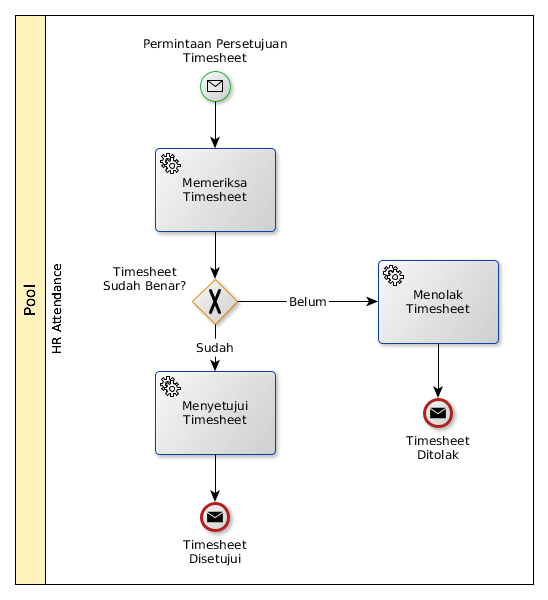
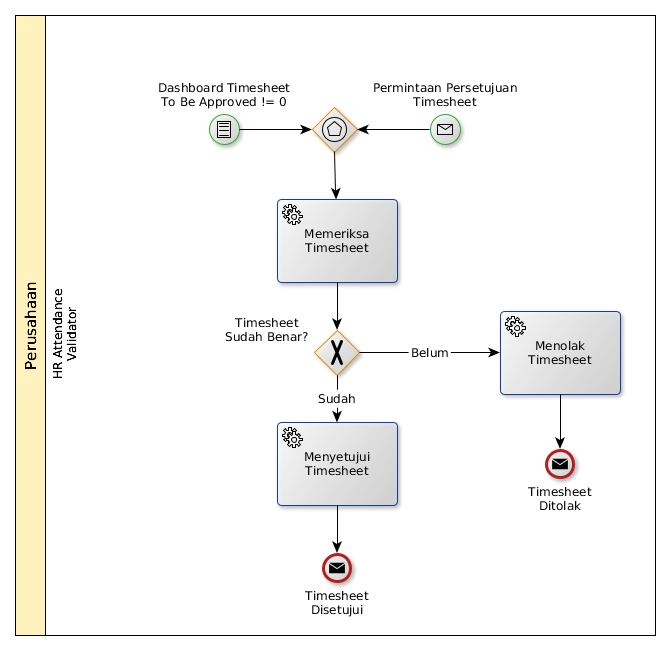
Revisi prosedur-prosedur terkait timesheet

diff --git a/src/hr/attendance/menyetujui-menolak-timesheet.md b/src/hr/attendance/menyetujui-menolak-timesheet.md
@@ -2,12 +2,18 @@
 
 ## <a name="input">A. INPUT</a>
 
-* Permintaan Persetujuan Timesheet
+* *Message*: Notifikasi **Permintaan Persetujuan Timesheet**, atau
+* *Condition*: Dashboard **Timesheet: To Be Approved != 0**
 
 ## <a name="role">B. ROLE YANG TERLIBAT</a>
 
-* HR Attendance
+* HR Attendance Validator
 
 ## <a name="instruksi">C. INSTRUKSI KERJA</a>
 
 ![](../../img/menyetujui-menolak-timesheet.png)
+
+## <a name="input">D. OUTPUT</a>
+
+* *Message*: Notifikasi **Timesheet Ditolak**, atau
+* *Message*: Notifikasi **Timesheet Disetujui**

diff --git a/src/hr/attendance/mengumpulkan-timesheet.md b/src/hr/attendance/mengumpulkan-timesheet.md
@@ -2,8 +2,9 @@
 
 ## <a name="input">A. INPUT</a>
 
-* Timesheet Ditolak
-* H+1 Periode Absen
+* *Message*: Notifikasi **Timesheet Ditolak**, atau
+* *Time*: H+1 Periode Absen, atau
+* *Condition*: Dashboard **My Timesheet: Need To Submitted != 0** 
 
 ## <a name="role">B. ROLE YANG TERLIBAT</a>
 
@@ -12,3 +13,7 @@
 ## <a name="instruksi">C. INSTRUKSI KERJA</a>
 
 ![](../../img/submit-timesheet.png)
+
+## <a name="output">D. OUTPUT</a>
+
+* *Message*: Notifikasi **Permintaan Persetujuan Timesheet**

diff --git a/src/hr/attendance/membuat-timesheet-masal.md b/src/hr/attendance/membuat-timesheet-masal.md
@@ -2,7 +2,7 @@
 
 ## <a name="input">A. INPUT</a>
 
-Tiap H-1 periode absen
+*Time*: H-1 Periode Absen
 
 ## <a name="role">B. ROLE YANG TERLIBAT</a>
 
@@ -11,3 +11,7 @@ Tiap H-1 periode absen
 ## <a name="instruksi">C. INSTRUKSI KERJA</a>
 
 ![](../../img/membuat-timesheet-masal.png)
+
+## <a name="output">D. OUTPUT</a>
+
+*Tidak ada end event yang spesifik*
